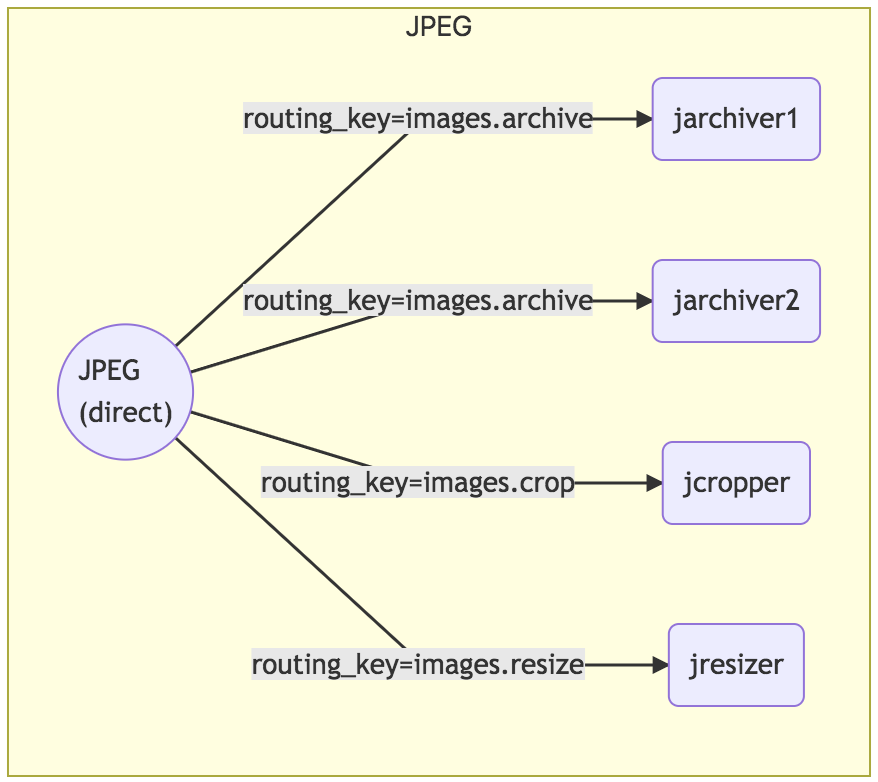
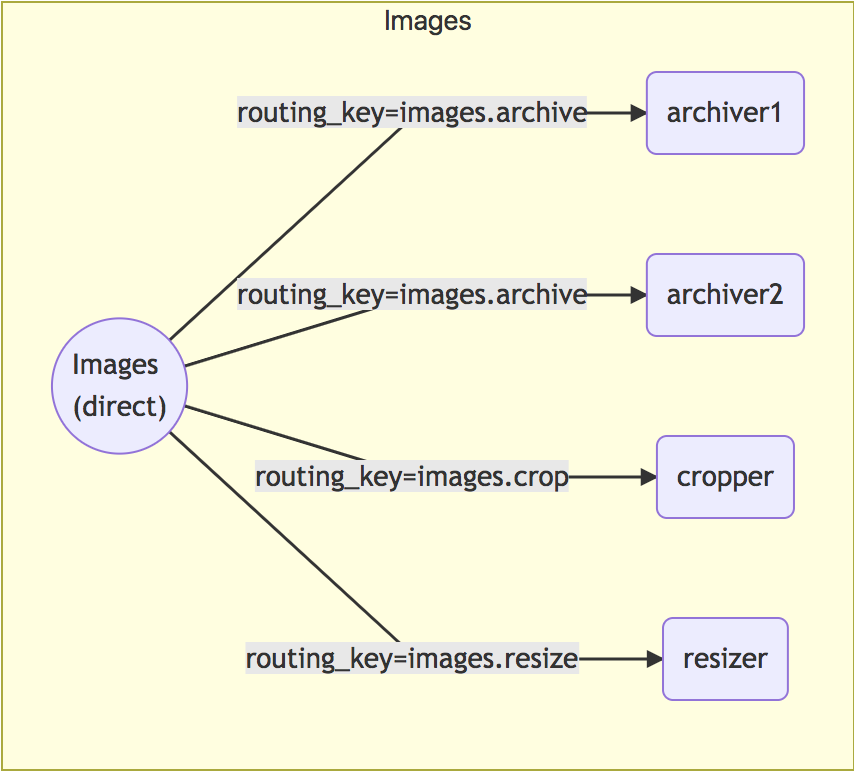
Adding options and example to docs

diff --git a/README.md b/README.md
@@ -8,31 +8,146 @@ markdown flowcharts. Direct, fanout, and topic-based exchanges are supported.
 ## Installation
 
 ```sh
-$ npm install --save rabbit-mermaid
+$ npm install rabbit-mermaid --save
 ```
 
 ## Usage
 
 ```js
 const { MermaidGenerator } = require("rabbit-mermaid");
-const topology = require("./topology.json");
-const mermaidGenerator = new MermaidGenerator(topology);
-mermaidGenerator.generate();
-```
-
-## Filtering
-
-The `exchanges` option will let you specify exactly which exchanges should show up in the generated output.
-_Please note that exchange to exchange bindings will be excluded if both exchanges are not specified_. This is intentional to
-reduce noise in large topologies with many dependencies.
-
-```js
-const mermaidGenerator = new MermaidGenerator(topology);
-const opts = {
-  exchanges: ["JPEG"]
+const topology = {
+  exchanges: [
+    {
+      name: "images",
+      vhost: "/",
+      type: "direct",
+      durable: true,
+      auto_delete: false,
+      internal: false,
+      arguments: {}
+    }
+  ],
+  queues: [
+    {
+      name: "archiver1",
+      vhost: "/",
+      durable: true,
+      auto_delete: false,
+      arguments: {}
+    },
+    {
+      name: "archiver2",
+      vhost: "/",
+      durable: true,
+      auto_delete: false,
+      arguments: {}
+    },
+    {
+      name: "cropper",
+      vhost: "/",
+      durable: true,
+      auto_delete: false,
+      arguments: {}
+    },
+    {
+      name: "resizer",
+      vhost: "/",
+      durable: true,
+      auto_delete: false,
+      arguments: {}
+    }
+  ],
+  bindings: [
+    {
+      source: "images",
+      vhost: "/",
+      destination: "archiver1",
+      destination_type: "queue",
+      routing_key: "images.archive",
+      arguments: {}
+    },
+    {
+      source: "images",
+      vhost: "/",
+      destination: "archiver2",
+      destination_type: "queue",
+      routing_key: "images.archive",
+      arguments: {}
+    },
+    {
+      source: "images",
+      vhost: "/",
+      destination: "cropper",
+      destination_type: "queue",
+      routing_key: "images.crop",
+      arguments: {}
+    },
+    {
+      source: "images",
+      vhost: "/",
+      destination: "resizer",
+      destination_type: "queue",
+      routing_key: "images.resize",
+      arguments: {}
+    }
+  ]
 };
-mermaidGenerator.generate(opts);
+
+const mermaidGenerator = new MermaidGenerator(topology);
+const opts = {};
+
+console.log(mermaidGenerator.generate(opts));
+
+/** Output:
+graph LR
+subgraph Images
+Images(("Images<br/>(direct)"))
+Images --routing_key=images.archive--> archiver1("archiver1")
+Images --routing_key=images.archive--> archiver2("archiver2")
+Images --routing_key=images.crop--> cropper("cropper")
+Images --routing_key=images.resize--> resizer("resizer")
+end
+**/
 ```
+
+Drop the generated output into a markdown file that supports [mermaid](https://mermaidjs.github.io/) and you will get
+
+![test](ExampleDG.png)
+
+# Options
+
+rabbit-mermaid has a handful of customizable format options.
+
+## Chart Direction
+
+Specifies the direction of the graph layout.
+
+* TB - top bottom
+* BT - bottom top
+* RL - right left
+* LR - left right
+
+* TD - same as TB
+
+| Default | API Override                         |
+| ------- | ------------------------------------ |
+| `LR`    | `chartDirection: "<LR|RL|TB|BT|TD>"` |
+
+## Exchanges
+
+Specify the exclusive list of exchanges that you want in your output. All other exchanges will be ignored.
+
+| Default | API Override               |
+| ------- | -------------------------- |
+| `ALL`   | `exchanges: Array<string>` |
+
+## Exchange to Exchange Bindings
+
+Whether or not to display exchange to exchange bindings in the generated output. This is disabled by default to reduce noise in large topologies with many dependencies.
+
+| Default | API Override                     |
+| ------- | -------------------------------- |
+| `false` | `showExToExBindings: <boolean>"` |
 
 ## License
 
